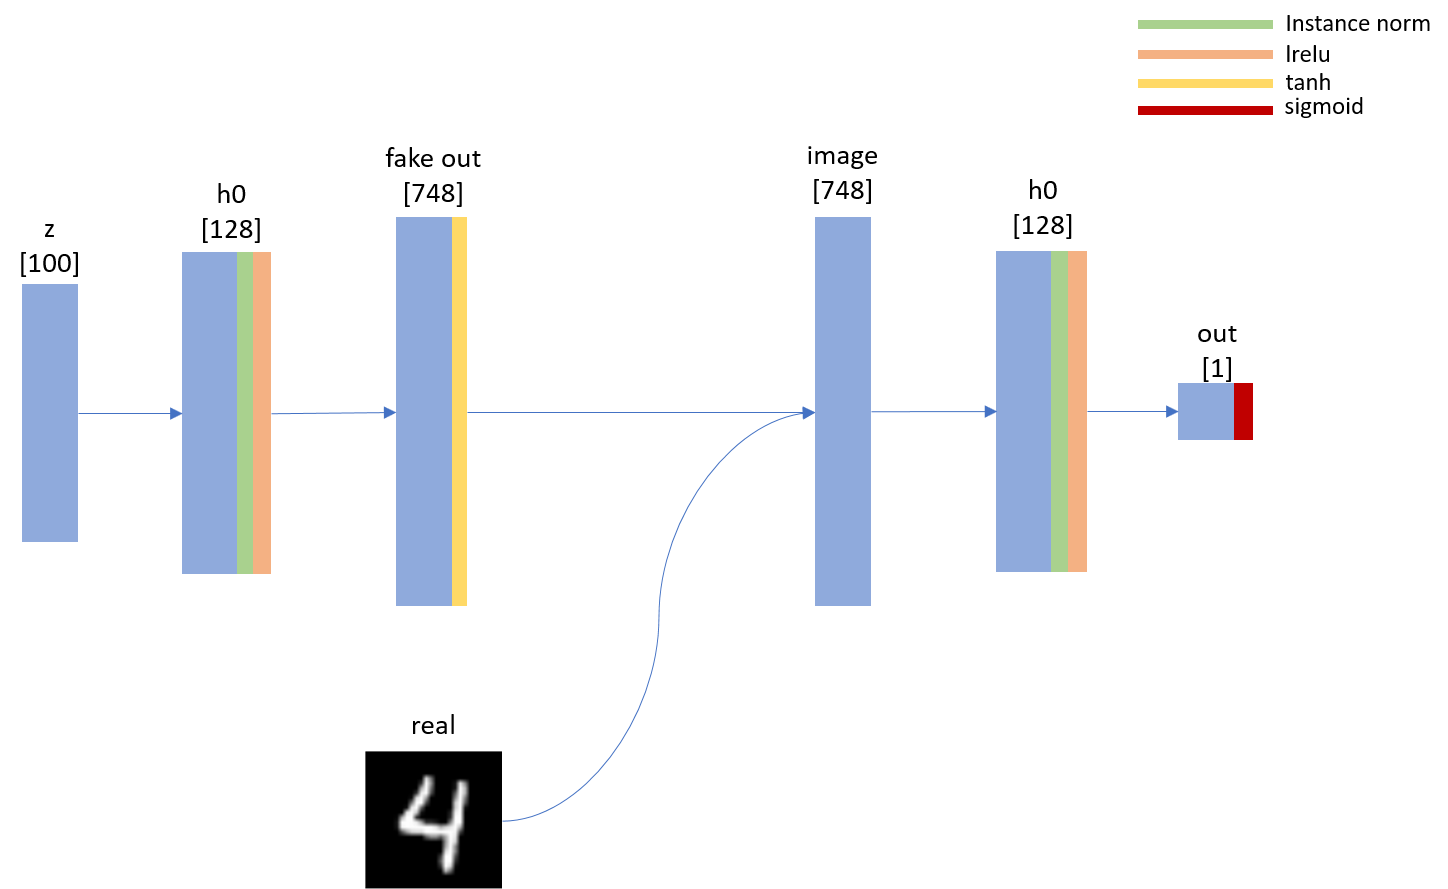
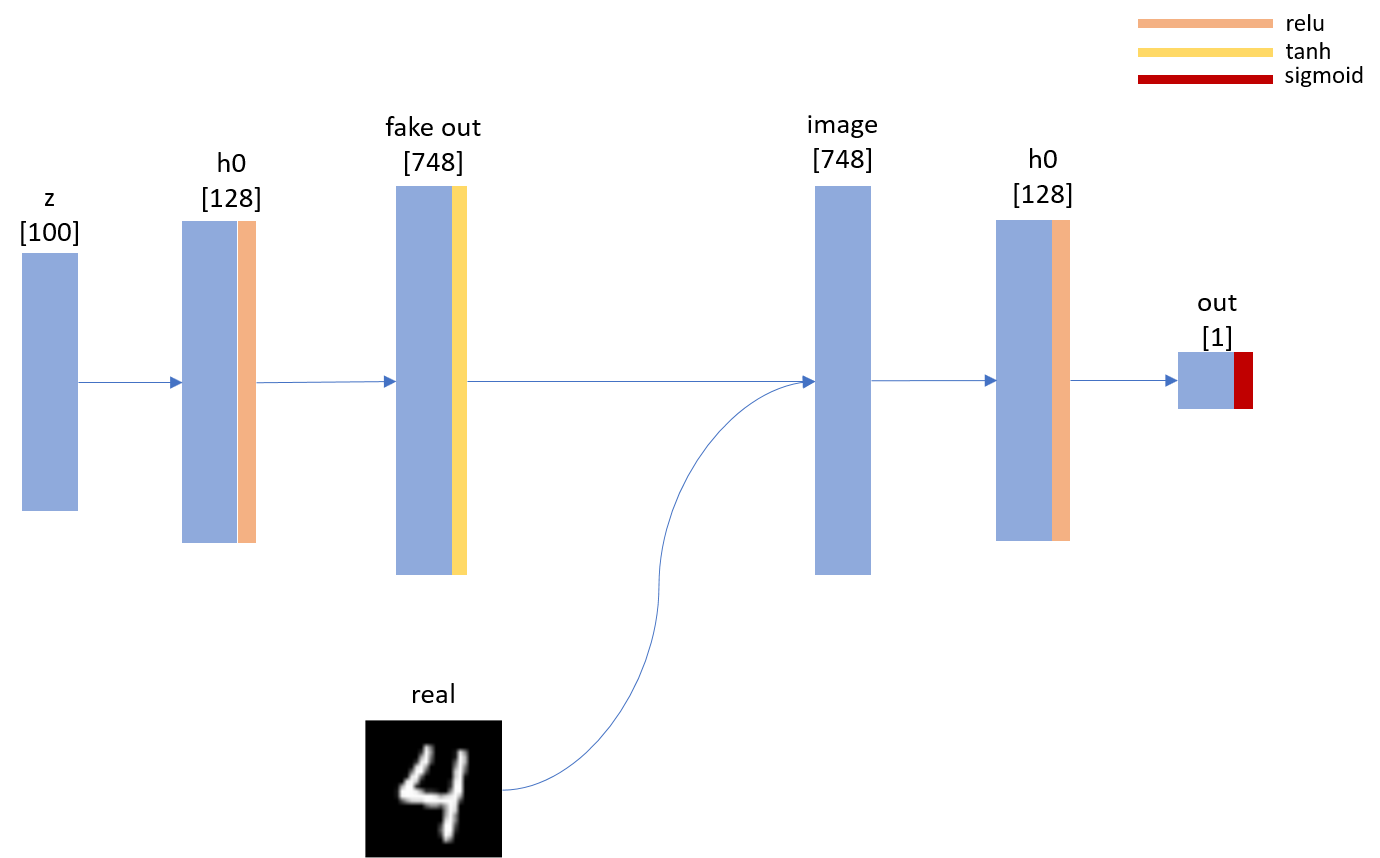
update

diff --git a/gan.py b/gan.py
@@ -11,7 +11,9 @@ class GAN(object):
 		self.batch_size = 64
 		self.epochs = 500
 		self.timestep = 1
-		self.learning_rate = 0.0002
+		self.learning_rate = 0.001
+		self.decay = 0.01
+
 		self.beta1 = 0.9
 		self.beta2 = 0.999
 
@@ -25,7 +27,7 @@ class GAN(object):
 		self.g_W0 = np.random.randn(100,256).astype(np.float32) * np.sqrt(2.0/(100))
 		self.g_b0 = np.zeros(256).astype(np.float32)
 
-		self.g_W1 = np.random.randn(256,784).astype(np.float32) * np.sqrt(2.0/(128))
+		self.g_W1 = np.random.randn(256,784).astype(np.float32) * np.sqrt(2.0/(256))
 		self.g_b1 = np.zeros(784).astype(np.float32)
 
 		# init discriminator weights 
@@ -335,8 +337,11 @@ class GAN(object):
 				img_tile(np.array(fake_img), self.img_path, epoch, idx, "res", False)
 				self.img = fake_img
 
-				print "Epoch [%d] Step [%d] G Loss:%.4f D Loss:%.4f Real Ave.: %.4f Fake Ave.: %.4f"%(epoch, idx, np.mean(g_loss), np.mean(d_loss), np.mean(d_real_output), np.mean(d_fake_output))
+				print "Epoch [%d] Step [%d] G Loss:%.4f D Loss:%.4f Real Ave.: %.4f Fake Ave.: %.4f LR: %.6f"%(epoch, idx, np.mean(g_loss), np.mean(d_loss), np.mean(d_real_output), np.mean(d_fake_output), self.learning_rate)
 				self.timestep += 1
+
+		
+			self.learning_rate = self.learning_rate * (1.0/(1.0 + self.decay*epoch))
 
 			#save image result every epoch
 			img_tile(np.array(self.img), self.img_path, epoch, idx, "res", True)

diff --git a/README.md b/README.md
@@ -4,8 +4,8 @@ This is a very simple step by step implementation of GAN using only numpy.
 ### What you can find
 * Vanilla GAN
 * Xavier Initialization
-* Adam Optimizer
-* Instance Norm
+* SGD
+
 
 ### Prerequisites  
 * numpy  
